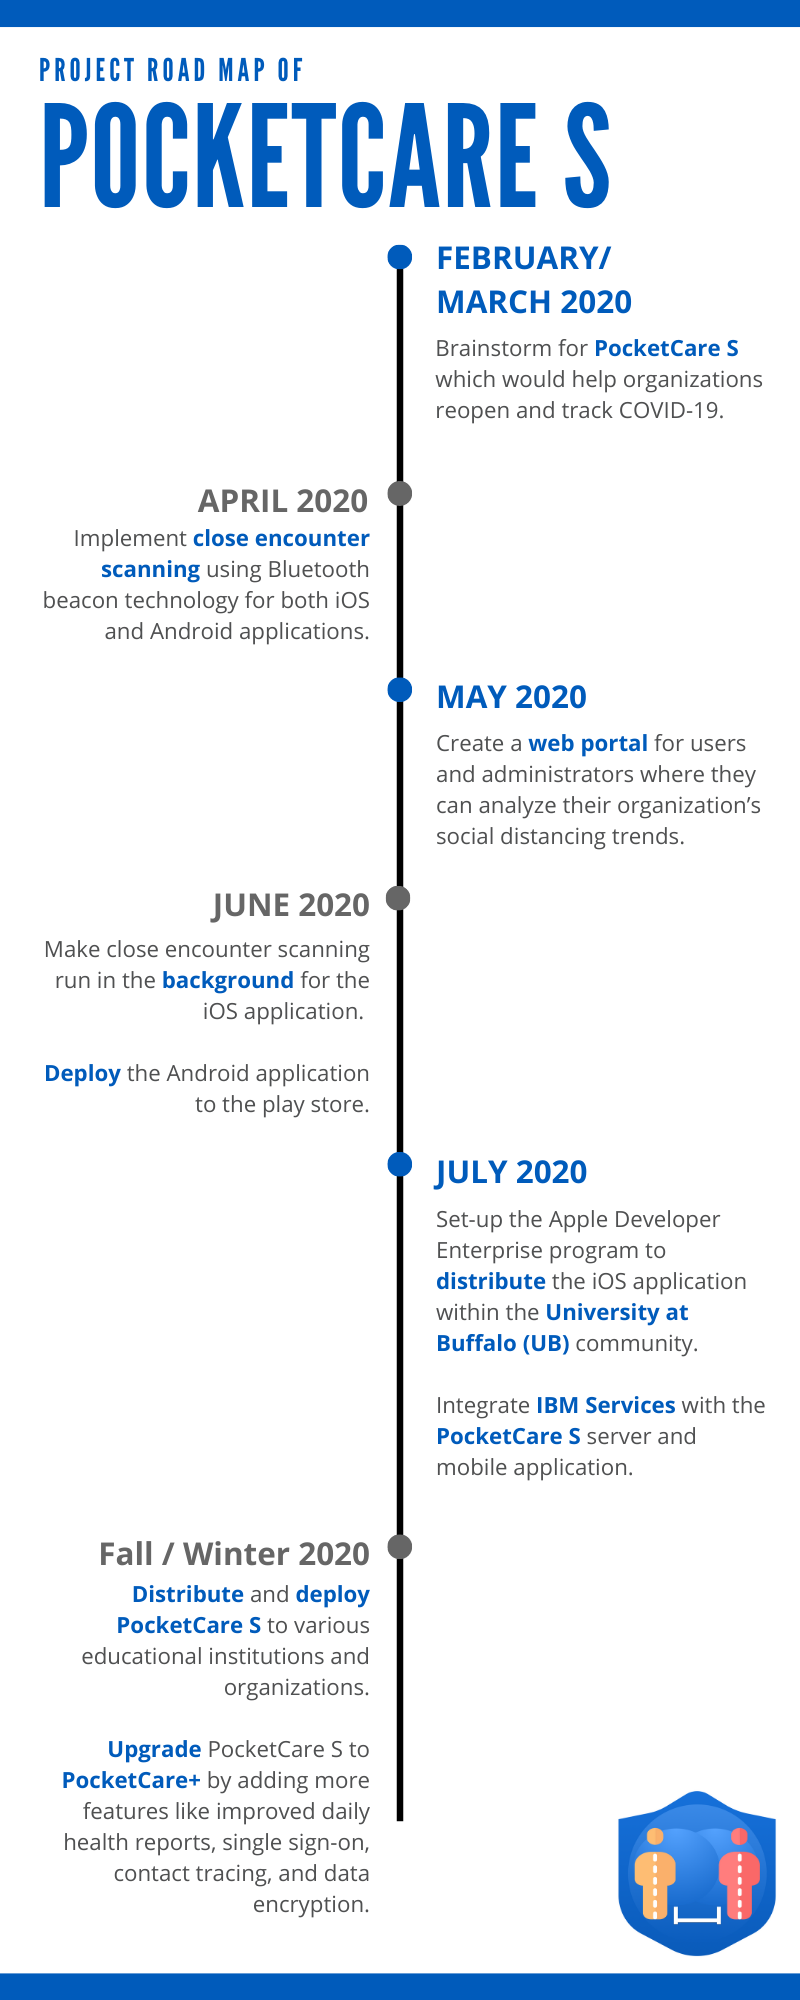
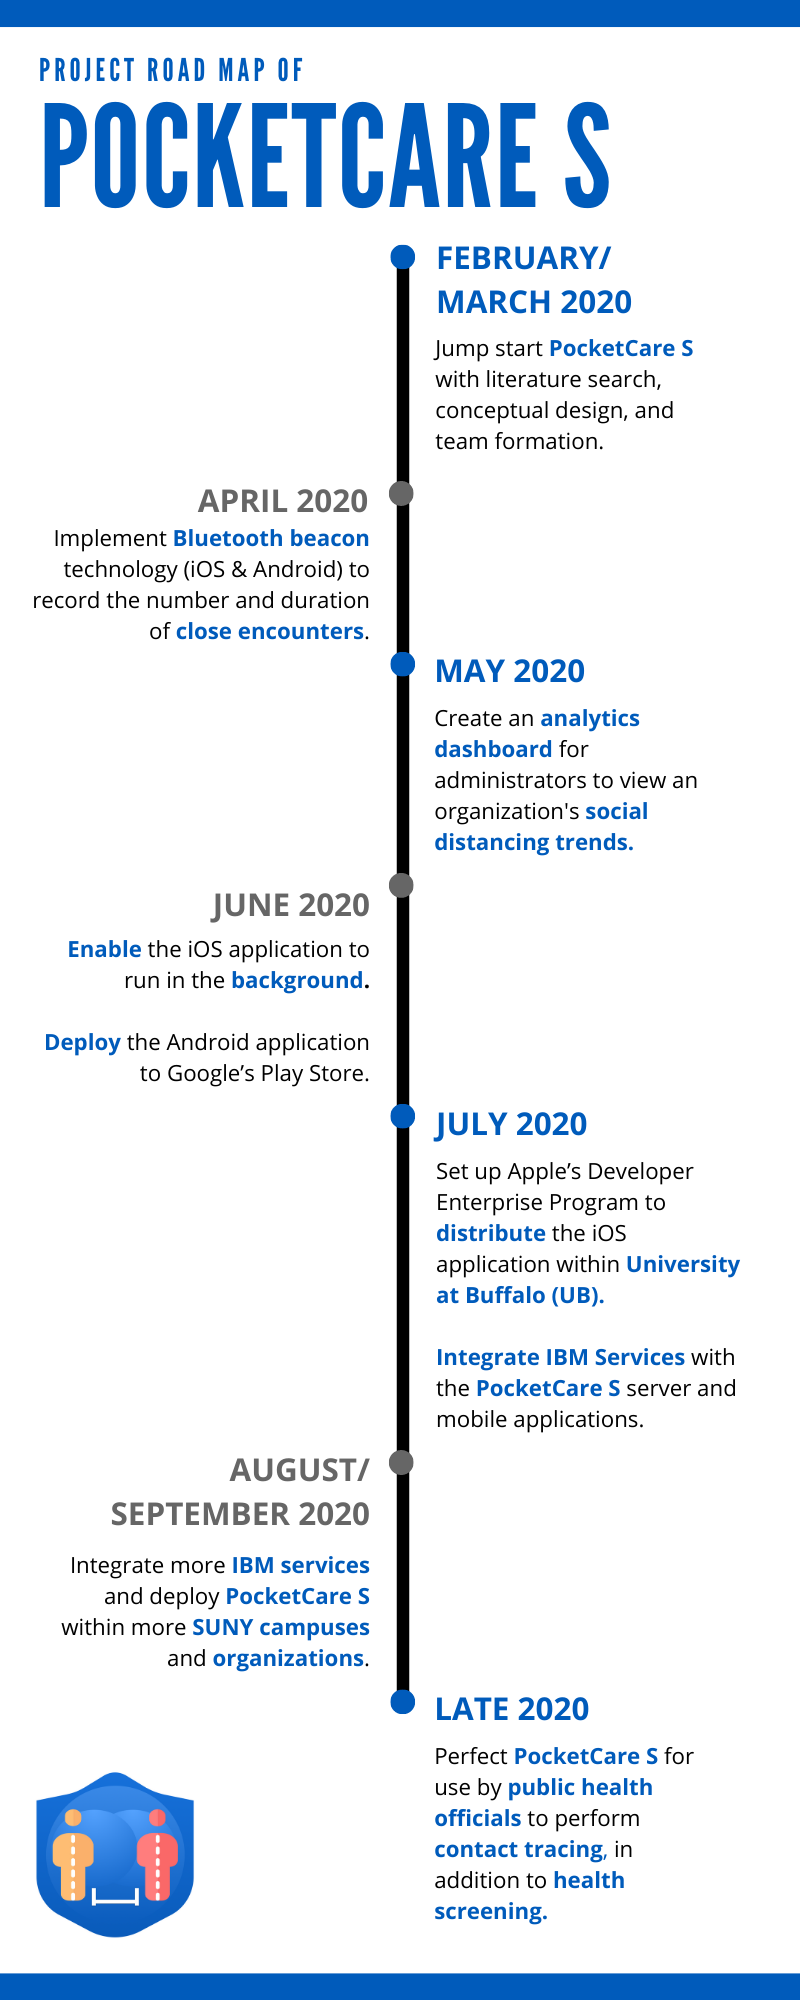
updated readme

Changed region(s): [[0.0312, 0.124, 0.9688, 0.992], [0.0625, 0.465, 0.4688, 0.558], [0.0625, 0.248, 0.4688, 0.341]]

diff --git a/README.md b/README.md
@@ -1,8 +1,10 @@
 # PocketCare S - Android
 
+<p align="center">
 <img src="/assets/logo.png" width="300">
+</p>
 
-**Call for code submission for COVID-19 track.**
+**Call for Code submission for COVID-19 track.**
 
 PocketCare S is a comprehensive smartphone-based solution for monitoring close encounters. It is a bluetooth low energy (BLE) based solution which enables smartphones to send and receive anonymous beacon signals. It checks the distance between a smartphone and another beacon (or smartphone running PocketCare S) to see if they are close to each other (less than 2m). If so, the smartphone records the duration of such a close encounter with another beacon. 
 
@@ -90,7 +92,7 @@ PocketCare S cares values the security and privacy of its users. The app does no
 
 ## Built With 
 
-In this submission, we have used IBM’s Cloud **Red Hat OpenShift** to deploy our server (using **OpenJDK 8**), database (using **MongoDB**), the web portal (using **Node Js server**) and **IBM Push notification service** from **IBM Bluemix** in the android application of PocketCare S as a proof of concept. In the future, we will consider integrating other IBM services into the PocketCare S solution.
+In this submission, we have used IBM’s Cloud **Red Hat OpenShift** to deploy our server (using **OpenJDK 8**), database (using **MongoDB**), the web portal (using **Node JS Server**) and **IBM Push Notification Service** from **IBM Cloud** in the android application of PocketCare S as a proof of concept. In the future, we will consider integrating other IBM services into the PocketCare S solution.
 
 ## Project Road Map 
 
@@ -98,7 +100,7 @@ In this submission, we have used IBM’s Cloud **Red Hat OpenShift** to deploy o
 
 ## Additional Information 
 
-You can read mre about PocketCare S on our [website](https://engineering.buffalo.edu/computer-science-engineering/pocketcares.html). We also have a [White Paper](https://docs.google.com/document/d/e/2PACX-1vT6UqA3HByzG5Di576gmz-JWzgKOFx5KLYGgJMpxcmWkOXYJ_vUFz2h1w2LnDNWI4y-xnyKhPi_s70p/pub) which can be accessed here.  
+You can read more about PocketCare S on our [website](https://engineering.buffalo.edu/computer-science-engineering/pocketcares.html). We also have a [White Paper](https://docs.google.com/document/d/e/2PACX-1vT6UqA3HByzG5Di576gmz-JWzgKOFx5KLYGgJMpxcmWkOXYJ_vUFz2h1w2LnDNWI4y-xnyKhPi_s70p/pub) which can be accessed here.  
 
 PocketCare S is also available on [Google Play](https://play.google.com/store/apps/details?id=com.ub.pocketcares) and to the University at Buffalo (UB) community using the [Apple developer Enterprise Program](https://engineering.buffalo.edu/computer-science-engineering/pocketcares/pocketcares-ios.html).
 
@@ -107,3 +109,9 @@ PocketCare S is also available on [Google Play](https://play.google.com/store/ap
 This project is licensed under the Apache 2 License - see the [LICENSE](LICENSE) file for details.
 
 ## Acknowledgements
+
+Special thanks to all who helped bring the project to fruition:
+
+Sourav Samanta, Rishabh Joshi, Jeetendra Gan, Shanelle Ileto, Aritra Paul, Dr. Peter Winkelstein, Dr. Matthew R. Bonner, Kevin Wang, Chen Yuan, Dheeraj Bhatia, Latheeshwarraj Mohanraj, Dr. Wen Dong, Dr. Tong Guan, Dr. Marina Blanton, Sasha Shapiro, Stephen Fung
+
+And our deepest gratitude for the support of University at Buffalo.
